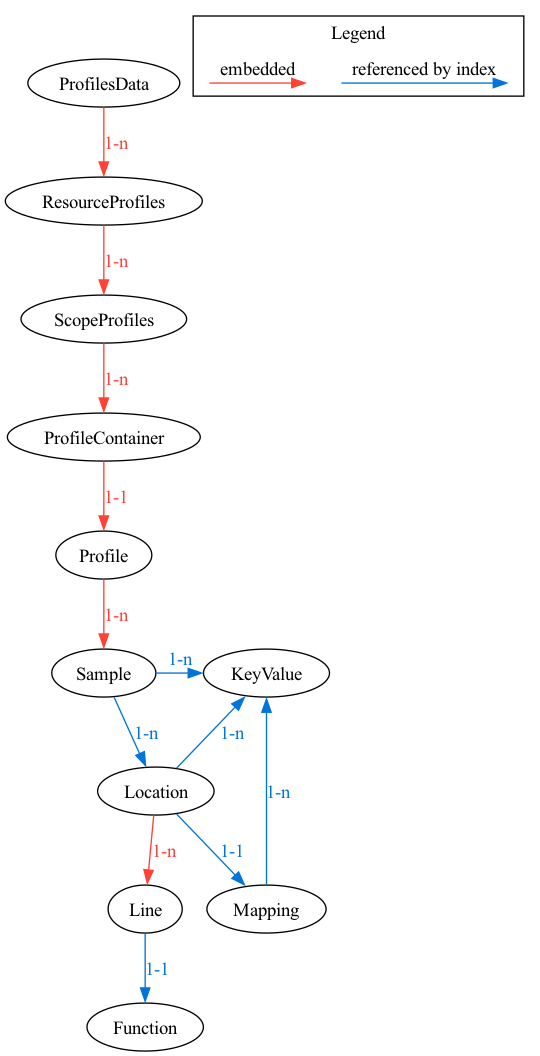
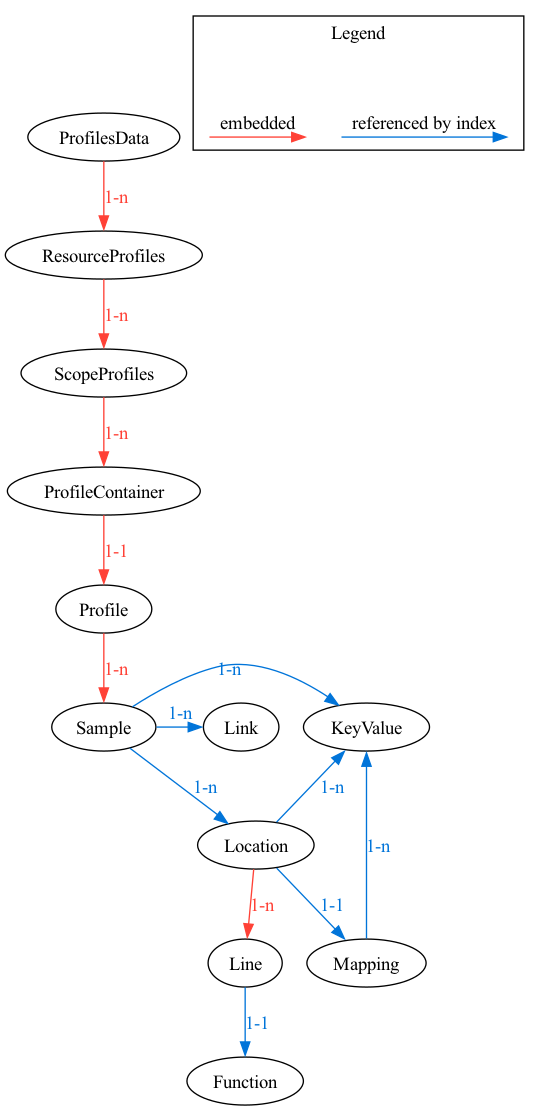
updates diagram

diff --git a/text/profiles/0239-profiles-data-model.md b/text/profiles/0239-profiles-data-model.md
@@ -11,6 +11,7 @@ Introduces Data Model for Profiles signal to OpenTelemetry.
   * [Relationships With Other Signals](#relationships-with-other-signals)
     * [From profiles to other signals](#from-profiles-to-other-signals)
     * [From other signals to profiles](#from-other-signals-to-profiles)
+  * [Compatibility with Original pprof](#compatibility-with-original-pprof)
   * [Proto Definition](#proto-definition)
   * [Message Descriptions](#message-descriptions)
     * [Message `ProfilesData`](#message-profilesdata)
@@ -20,6 +21,7 @@ Introduces Data Model for Profiles signal to OpenTelemetry.
     * [Message `Profile`](#message-profile)
     * [Message `ValueType`](#message-valuetype)
     * [Message `Sample`](#message-sample)
+    * [Message `Link`](#message-link)
     * [Message `Location`](#message-location)
     * [Message `Line`](#message-line)
     * [Message `Mapping`](#message-mapping)
@@ -175,12 +177,12 @@ option go_package = "go.opentelemetry.io/proto/otlp/profiles/v1";
 // ┌──────────────────┐
 // │      Profile     │
 // └──────────────────┘
-//   │
-//   │ 1-n
-//   ▼
-// ┌──────────────────┐   1-n   ┌──────────────┐
-// │      Sample      │ ──────▷ │   KeyValue   │
-// └──────────────────┘         └──────────────┘
+//   │                                1-n
+//   │ 1-n         ┌───────────────────────────────────────┐
+//   ▼             │                                       ▽
+// ┌──────────────────┐   1-n   ┌──────────────┐      ┌──────────┐
+// │      Sample      │ ──────▷ │   KeyValue   │      │   Link   │
+// └──────────────────┘         └──────────────┘      └──────────┘
 //   │                    1-n       △      △
 //   │ 1-n        ┌─────────────────┘      │ 1-n
 //   ▽            │                        │
@@ -343,6 +345,8 @@ import "opentelemetry/proto/common/v1/common.proto";
 
 option go_package = "go.opentelemetry.io/proto/otlp/profiles/v1/alternatives/pprofextended";
 
+// Represents a complete profile, including sample types, samples,
+// mappings to binaries, locations, functions, string table, and additional metadata.
 message Profile {
   // A description of the samples associated with each Sample.value.
   // For a cpu profile this might be:
@@ -397,8 +401,23 @@ message Profile {
   repeated int64 location_indices = 15;
   // Lookup table for attributes.
   repeated opentelemetry.proto.common.v1.KeyValue attribute_table = 16;
+  // Lookup table for links.
+  repeated Link link_table = 17;
 }
 
+// A pointer from a profile Sample to a trace Span.
+// Connects a profile sample to a trace span, identified by unique trace and span IDs.
+message Link {
+  // A unique identifier of a trace that this linked span is part of. The ID is a
+  // 16-byte array.
+  bytes trace_id = 1;
+
+  // A unique identifier for the linked span. The ID is an 8-byte array.
+  bytes span_id = 2;
+}
+
+// Specifies the method of aggregating metric values, either DELTA (change since last report)
+// or CUMULATIVE (total since a fixed start time).
 enum AggregationTemporality {
   /* UNSPECIFIED is the default AggregationTemporality, it MUST not be used. */
   AGGREGATION_TEMPORALITY_UNSPECIFIED = 0;
@@ -458,14 +477,14 @@ enum AggregationTemporality {
   11. A request is received, the system measures 1 request.
   12. The 1 second collection cycle ends. A metric is exported for the
       number of requests received over the interval of time t_1 to
-      t_1+1 with a value of 1.
+      t_0+1 with a value of 1.
 
   Note: Even though, when reporting changes since last report time, using
   CUMULATIVE is valid, it is not recommended. */
   AGGREGATION_TEMPORALITY_CUMULATIVE = 2;
 }
 
-// ValueType describes the semantics and measurement units of a value.
+// ValueType describes the type and units of a value, with an optional aggregation temporality.
 message ValueType {
   int64 type = 1; // Index into string table.
   int64 unit = 2; // Index into string table.
@@ -511,10 +530,15 @@ message Sample {
   // References to attributes in Profile.attribute_table. [optional]
   repeated uint64 attributes = 7;
 
+  // References to links in Profile.link_table. [optional]
+  repeated uint64 links = 8;
+
   // A 128bit id that uniquely identifies this stacktrace, globally. Index into string table. [optional]
-  uint32 stacktrace_id_index = 2;
+  uint32 stacktrace_id_index = 9;
 }
 
+// Provides additional context for a sample,
+// such as thread ID or allocation size, with optional units. [deprecated]
 message Label {
   int64 key = 1;   // Index into string table
 
@@ -532,6 +556,16 @@ message Label {
   int64 num_unit = 4;  // Index into string table
 }
 
+// Indicates the type of build ID, either from the linker or a binary hash.
+enum BuildIdKind {
+  // BUILD_ID_LINKER indicates that the build id is linker-provided (usually GNU build ID)
+  BUILD_ID_LINKER = 0;
+  // BUILD_ID_BINARY_HASH indicates that the build id is a hash of the binary.
+  BUILD_ID_BINARY_HASH = 1;
+}
+
+// Describes the mapping of a binary in memory, including its address range,
+// file offset, and metadata like build ID
 message Mapping {
   // Unique nonzero id for the mapping. [deprecated]
   uint64 id = 1;
@@ -556,10 +590,8 @@ message Mapping {
   bool has_line_numbers = 9;
   bool has_inline_frames = 10;
 
-  // A string that uniquely identifies a particular binary with high probability.
-  // It is meant to work around deficiencies in the GNU Build ID that may compromise
-  // uniqueness / correlatability. Index into string table.
-  uint32 file_id_index = 11;
+  // Specifies the kind of build id. See BuildIdKind enum for more detaiks [optional]
+  BuildIdKind build_id_kind = 11;
 
   // References to attributes in Profile.attribute_table. [optional]
   repeated uint64 attributes = 12;
@@ -602,6 +634,7 @@ message Location {
   repeated uint64 attributes = 7;
 }
 
+// Details a specific line in a source code, linked to a function.
 message Line {
   // The index of the corresponding profile.Function for this line.
   uint64 function_index = 1;
@@ -609,6 +642,8 @@ message Line {
   int64 line = 2;
 }
 
+// Describes a function, including its human-readable name, system name,
+// source file, and starting line number in the source.
 message Function {
   // Unique nonzero id for the function. [deprecated]
   uint64 id = 1;
@@ -761,6 +796,9 @@ following conventions:
   mappings. For every nonzero Location.mapping_id there must be a
   unique Mapping with that id.
 
+Represents a complete profile, including sample types, samples,
+mappings to binaries, locations, functions, string table, and additional metadata.
+
 <details>
 <summary>Field Descriptions</summary>
 
@@ -849,11 +887,15 @@ Array of locations referenced by samples.
 ##### Field `attribute_table`
 
 Lookup table for attributes.
+
+##### Field `link_table`
+
+Lookup table for links.
 </details>
 
 #### Message `ValueType`
 
-ValueType describes the semantics and measurement units of a value.
+ValueType describes the type and units of a value, with an optional aggregation temporality.
 
 <details>
 <summary>Field Descriptions</summary>
@@ -918,9 +960,31 @@ Timestamps associated with Sample represented in ms. These timestamps are expect
 
 References to attributes in Profile.attribute_table. [optional]
 
+##### Field `links`
+
+References to links in Profile.link_table. [optional]
+
 ##### Field `stacktrace_id_index`
 
 A 128bit id that uniquely identifies this stacktrace, globally. Index into string table. [optional]
+</details>
+
+#### Message `Link`
+
+A pointer from a profile Sample to a trace Span.
+Connects a profile sample to a trace span, identified by unique trace and span IDs.
+
+<details>
+<summary>Field Descriptions</summary>
+
+##### Field `trace_id`
+
+A unique identifier of a trace that this linked span is part of. The ID is a
+16-byte array.
+
+##### Field `span_id`
+
+A unique identifier for the linked span. The ID is an 8-byte array.
 </details>
 
 #### Message `Location`
@@ -977,6 +1041,8 @@ References to attributes in Profile.attribute_table. [optional]
 
 #### Message `Line`
 
+Details a specific line in a source code, linked to a function.
+
 <details>
 <summary>Field Descriptions</summary>
 
@@ -990,6 +1056,9 @@ Line number in source code.
 </details>
 
 #### Message `Mapping`
+
+Describes the mapping of a binary in memory, including its address range,
+file offset, and metadata like build ID
 
 <details>
 <summary>Field Descriptions</summary>
@@ -1028,11 +1097,9 @@ it could be the contents of the .note.gnu.build-id field.
 Index into string table
 The following fields indicate the resolution of symbolic info.
 
-##### Field `file_id_index`
+##### Field `build_id_kind`
 
-A string that uniquely identifies a particular binary with high probability.
-It is meant to work around deficiencies in the GNU Build ID that may compromise
-uniqueness / correlatability. Index into string table.
+Specifies the kind of build id. See BuildIdKind enum for more detaiks [optional]
 
 ##### Field `attributes`
 
@@ -1040,6 +1107,9 @@ References to attributes in Profile.attribute_table. [optional]
 </details>
 
 #### Message `Function`
+
+Describes a function, including its human-readable name, system name,
+source file, and starting line number in the source.
 
 <details>
 <summary>Field Descriptions</summary>
